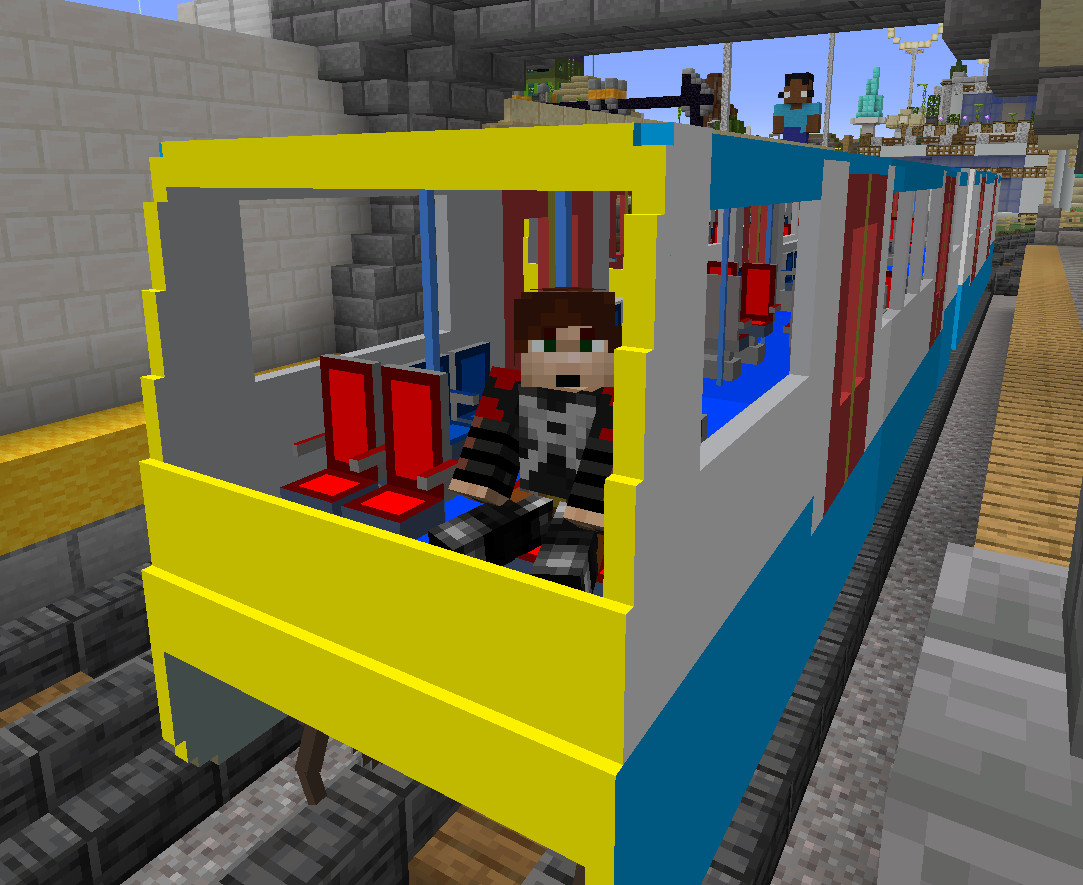
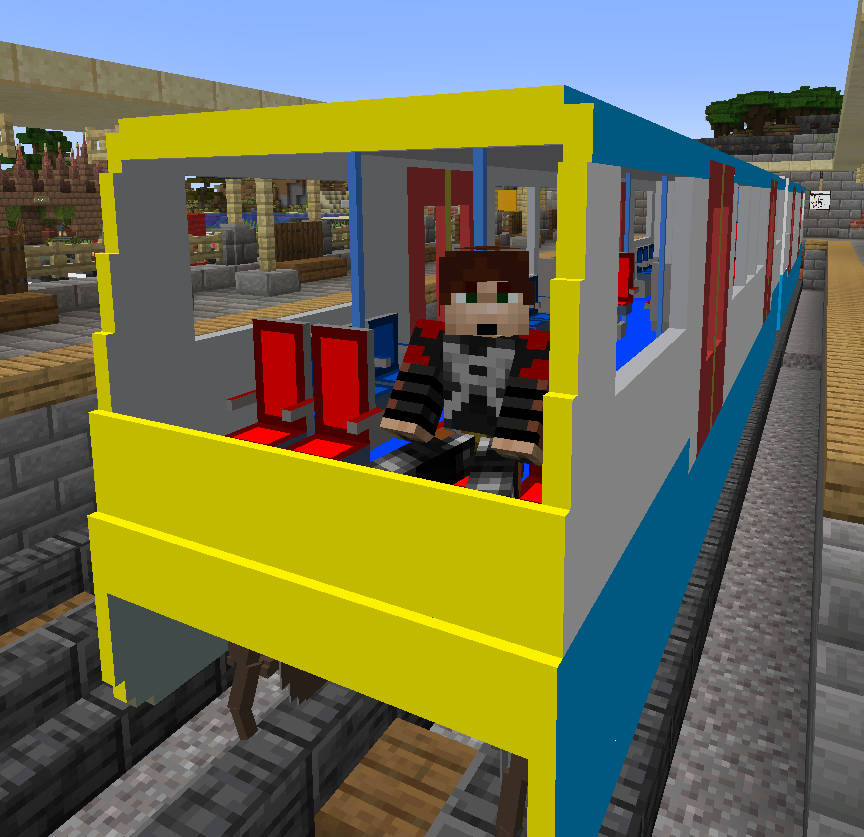
Metro: Document livery variants
Update the screenshots of the Metro train and document the different
Metro livery variants.

diff --git a/docs/metro.md b/docs/metro.md
@@ -3,10 +3,35 @@ Metro (Inspired by DLR B07)
 
 ![Screenshot](./metro.jpg)
 
-To-do list
-----------
+A metro train inspired by the B07 DLR train.
 
- - [x] Seat models
+Variants
+--------
+
+This train comes in the following variants:
+
+Train ID       | Description                               | Screenshot
+---------------|-------------------------------------------|------------
+`metro`        | Standard blue and white livery            | ![metro](./metro_thumb.jpg)
+`metro_red`    | Red stripe along top, red poles           | ![metro](./metro_red_thumb.jpg)
+`metro_yellow` | Yellow stripe along top, yellow poles     | ![metro](./metro_yellow_thumb.jpg)
+
+
+Customization
+-------------
+
+A custom logo or train line name can be placed on the sides and ends of the
+trains by editing the following textures in the resource pack:
+ - `metro`: `assets/minecraft/textures/item/amalon/tc/metro/branding.png`
+ - `metro_red`: `assets/minecraft/textures/item/amalon/tc/metro/red/branding.png`
+ - `metro_yellow`: `assets/minecraft/textures/item/amalon/tc/metro/yel/branding.png`
+
+The original resource pack files are found in the `res/` directory of the git
+repository.
+
+The upper white part of the texture is mapped onto the middle of both sides of
+the train.
+The lower yellow part of the texture is mapped onto the ends of the train.
 
 
 Stations

diff --git a/README.md b/README.md
@@ -36,7 +36,7 @@ The following trains are provided:
 Train ID    | Name                                      | Status        | Screenshot
 ------------|-------------------------------------------|---------------|------------
 [class158]  | British Rail Class 158 Express Sprinter   | Beta          | ![class158](docs/class158_thumb.jpg)
-[metro]     | Metro train inspired by B07 DLR train     | Beta          | ![metro](docs/metro_thumb.jpg)
+[metro]<br/>metro\_red<br/>metro\_yellow | Metro train inspired by B07 DLR train     | Beta          | ![metro](docs/metro_thumb.jpg)
 [a4]        | LNER Class A4 (4468 Mallard)              | Beta          | ![a4](docs/a4_thumb.jpg)
 
 [class158]: ./docs/class158.md
